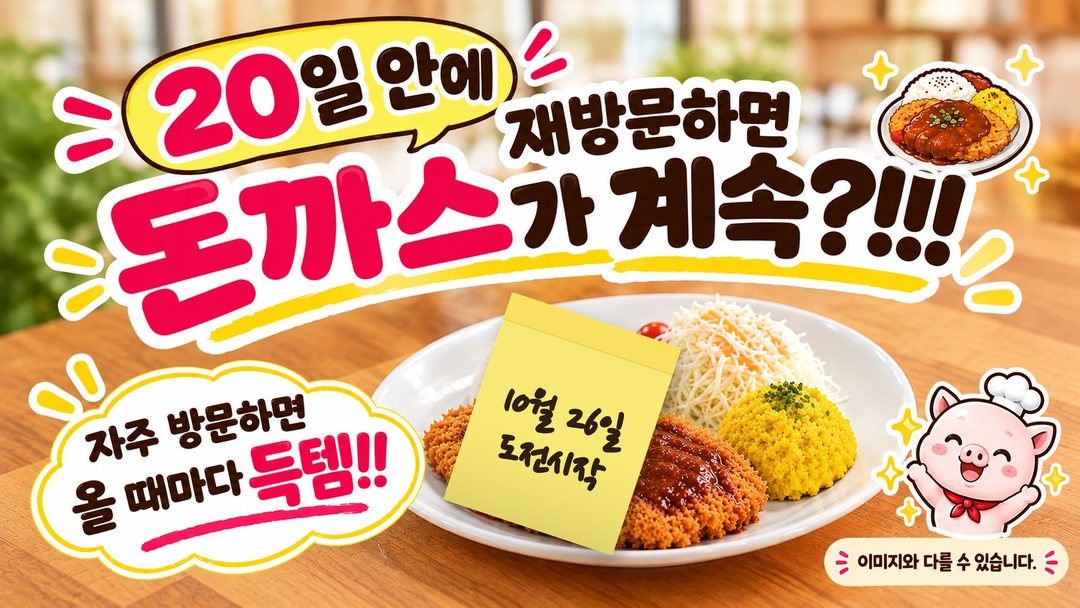
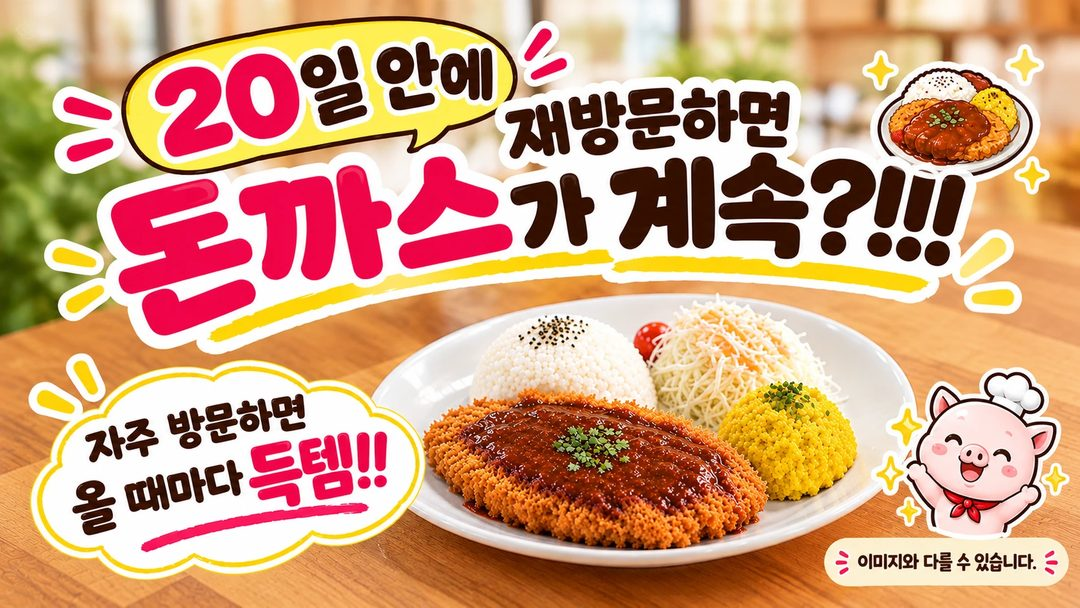
문구 고침, 마일리지 안내 추가, 카운트다운 10시 기준, 9시 이미지 교체
- 카운트다운·도전 시작을 10월 26일 오전 10시(한국 시간)로
- 10월 26일 오전 9시부터 홍보 이미지를 포스트잇 없는 원본으로 (그 전엔 포스트잇, 열어 둔 화면도 바로 바뀜, 한 장만 받음)
- 카운트다운 칸에 "이벤트 기간 마일리지는 누적 카운트되지 않습니다." 안내
- 1단계: 마감일 → 득템 가능한 재방문 기한일 (계산기 제목도 같은 말로)
- 깨알 규칙 1번: "도전을 위한 첫 기준 방문일은…", "이벤트가 종료된 뒤 이용완료 마일리지 적립이 재개됩니다."

Claude-Session: https://claude.ai/code/session_01UUHcDPmg273z7uGNQdQ7sC

Changed region(s): [[0.3972, 0.4688, 0.6417, 0.9375]]

diff --git a/donkatsu/index.html b/donkatsu/index.html
@@ -155,10 +155,12 @@ b, strong { font-weight: 900; }
 .live p { margin: 0; }
 .live .live__day { display: inline-block; margin-bottom: 6px; padding: 2px 10px; border-radius: 999px; background: var(--pink); color: var(--white); font-family: var(--round); font-weight: 400; font-size: 15px; }
 .live strong { color: var(--pink-dark); }
+.mileage-note { margin: 12px 0 0; padding: 8px 10px; border-radius: 12px; background: var(--cream); font-size: 13.5px; font-weight: 700; line-height: 1.45; text-align: center; }
 .is-live .tiles { display: none; }
 .is-live .live { display: block; }
 
 .poster { margin: 0 0 6px; }
+html:not(.js) .poster picture { display: none; }
 .poster picture { display: block; border: 3px solid var(--ink); border-radius: 22px; overflow: hidden; box-shadow: 0 6px 0 var(--ink); background: var(--peach); }
 .scroll-hint { display: inline-flex; flex-direction: column; align-items: center; margin: 14px 0 4px; color: var(--ink-soft); font-weight: 700; font-size: 14px; text-decoration: none; }
 .scroll-hint span { font-size: 22px; line-height: 1; animation: nudge 1.4s ease-in-out infinite; }
@@ -280,9 +282,9 @@ b, strong { font-weight: 900; }
 .vs__mid { align-self: center; display: grid; place-items: center; width: 52px; height: 52px; border-radius: 50%; background: var(--pink); color: var(--white); font-family: var(--round); font-size: 22px; box-shadow: 0 4px 0 var(--pink-dark); transform: rotate(-8deg); }
 .vs__q { margin: 16px 0 0; text-align: center; font-family: var(--round); font-size: 22px; }
 
-/* 마감일 계산기 */
+/* 재방문 기한일 계산기 */
 .calc { background: var(--yellow); }
-.calc .card-sub { margin: -6px 0 14px; text-align: center; font-weight: 700; font-size: 14px; color: var(--ink-soft); }
+.calc .card-sub { margin: -6px 0 14px; text-align: center; font-weight: 700; font-size: 14px; color: var(--ink-soft); text-wrap: balance; }
 .field { display: flex; align-items: center; gap: 10px; padding: 10px 12px; border: 2.5px solid var(--ink); border-radius: 16px; background: var(--white); }
 .field span { flex: none; font-weight: 900; }
 .field input {
@@ -307,6 +309,7 @@ b, strong { font-weight: 900; }
 .rules li:first-child { border-top: 0; padding-top: 2px; }
 .rules .ico { flex: none; display: grid; place-items: center; width: 38px; height: 38px; border-radius: 12px; background: var(--cream); font-size: 20px; }
 .rules b { color: var(--pink-dark); }
+.rules .rule-sub { display: block; margin-top: 6px; padding: 6px 10px; border-radius: 10px; background: var(--yellow-soft); font-size: 14.5px; font-weight: 700; }
 
 /* 예약·공유 */
 .cta { margin-top: 56px; padding-top: 58px; background: linear-gradient(180deg, #FFF0F4 0%, var(--white) 70%); text-align: center; }
@@ -379,7 +382,7 @@ b, strong { font-weight: 900; }
 
     <section class="countdown" id="countdown" aria-label="이벤트 시작 카운트다운">
       <div class="countdown__head">
-        <span class="countdown__label" id="cdLabel"><em>10월 26일(월)</em> 도전 시작까지</span>
+        <span class="countdown__label" id="cdLabel"><em>10월 26일(월) 오전 10시</em><br>도전 시작까지</span>
         <span class="viewers" id="viewers" title="이 소식을 본 사람 수"><span aria-hidden="true">👀</span><span class="viewers__num" id="viewersNum">00000</span><span class="viewers__unit">명이 봤어요</span></span>
       </div>
       <div class="tiles" role="timer" aria-live="off">
@@ -392,15 +395,30 @@ b, strong { font-weight: 900; }
         <span class="live__day" id="liveDay">D+1일째</span>
         <p>오늘 첫 방문하면 <strong id="liveDeadline"></strong>까지<br>다시 오면 돈까스 득템!</p>
       </div>
+      <p class="mileage-note"><span aria-hidden="true">⏸</span> 이벤트 기간 마일리지는<br>누적 카운트되지 않습니다.</p>
     </section>
 
     <figure class="poster">
       <picture>
-        <source srcset="img/poster.webp" type="image/webp">
-        <img src="img/poster.jpg" width="1080" height="608" fetchpriority="high"
-             alt="20일 안에 재방문하면 돈까스가 계속?!!! 자주 방문하면 올 때마다 득템!! — 돈까스 위에 '10월 26일 도전시작' 포스트잇">
+        <source id="posterSrc" type="image/webp">
+        <img id="posterImg" width="1080" height="608" fetchpriority="high" alt="">
       </picture>
+      <noscript><img src="img/poster.jpg" width="1080" height="608" alt="20일 안에 재방문하면 돈까스가 계속?!!! 자주 방문하면 올 때마다 득템!!"></noscript>
     </figure>
+    <script>
+      // 10월 26일 오전 9시(한국 시간)부터는 포스트잇 없는 원본 이미지 (그 전에는 '10월 26일 도전시작' 포스트잇)
+      window.POSTER_SWAP = Date.UTC(2026, 9, 26, 0, 0, 0);
+      window.setPoster = function (now) {
+        var live = now >= window.POSTER_SWAP, v = live ? 'live' : 'postit';
+        var img = document.getElementById('posterImg');
+        if (img.getAttribute('data-v') === v) return;
+        document.getElementById('posterSrc').srcset = live ? 'img/poster.webp' : 'img/poster-postit.webp';
+        img.src = live ? 'img/poster.jpg' : 'img/poster-postit.jpg';
+        img.alt = live ? "20일 안에 재방문하면 돈까스가 계속?!!! 자주 방문하면 올 때마다 득템!!" : "20일 안에 재방문하면 돈까스가 계속?!!! 자주 방문하면 올 때마다 득템!! — 돈까스 위에 '10월 26일 도전시작' 포스트잇";
+        img.setAttribute('data-v', v);
+      };
+      window.setPoster(Date.now());
+    </script>
     <a class="scroll-hint" href="#value">아래로 쓱~ 내려서 득템 방법 보기<span aria-hidden="true">↓</span></a>
   </header>
 
@@ -429,7 +447,7 @@ b, strong { font-weight: 900; }
           <span class="step__no">1</span>
           <div>
             <h3>10월 26일 이후 <em>첫 방문</em></h3>
-            <p>누구나 도전 시작! 입장권에 <b>마감일(+20일)</b>이 찍혀 나와요 🎟</p>
+            <p>누구나 도전 시작! 입장권에 <b>득템 가능한 재방문 기한일(+20일)</b>이 찍혀 나와요 🎟</p>
           </div>
         </li>
         <li class="step reveal">
@@ -482,8 +500,8 @@ b, strong { font-weight: 900; }
     </section>
 
     <section class="card calc reveal" aria-labelledby="calcTitle">
-      <h2 id="calcTitle">⏰ 내 득템 마감일은?</h2>
-      <p class="card-sub">방문한 날을 고르면 마감일을 알려드려요</p>
+      <h2 id="calcTitle">⏰ 내 재방문 기한일은?</h2>
+      <p class="card-sub">방문한 날을 고르면 득템 가능한 재방문 기한일을 알려드려요</p>
       <label class="field">
         <span>방문한 날</span>
         <input type="date" id="visitDate" min="2026-10-26" value="2026-10-26">
@@ -498,7 +516,7 @@ b, strong { font-weight: 900; }
     <section class="card rules reveal" aria-labelledby="rulesTitle">
       <h2 id="rulesTitle">📌 놓치면 아까운 깨알 규칙</h2>
       <ul>
-        <li><span class="ico" aria-hidden="true">🗓</span><div><b>10월 25일까지</b>의 방문은 지금처럼 마일리지 적립! 도전은 아직 시작 전이에요</div></li>
+        <li><span class="ico" aria-hidden="true">🗓</span><div><b>10월 25일까지</b>의 방문은 지금처럼 마일리지 적립! 도전을 위한 첫 기준 방문일은 아직 시작 전이에요<span class="rule-sub">이벤트가 종료된 뒤 이용완료 마일리지 적립이 재개됩니다.</span></div></li>
         <li><span class="ico" aria-hidden="true">⏸</span><div><b>10월 26일부터</b>는 마일리지 적립이 잠시 멈추고, 돈까스 도전이 시작돼요</div></li>
         <li><span class="ico" aria-hidden="true">🔁</span><div><b>21일 이상</b> 훌쩍 지나서 오시면 콤보 리셋! 그날이 다시 첫 방문이 돼요</div></li>
         <li><span class="ico" aria-hidden="true">🍽</span><div><b>사은 음식</b> 한돈 생육으로 직접 만든 수제 돈까스 1접시 (14,000원)</div></li>
@@ -533,7 +551,7 @@ b, strong { font-weight: 900; }
   'use strict';
 
   /* ── 설정 ── */
-  const START = Date.UTC(2026, 9, 25, 15, 0, 0);   // 2026-10-26 00:00 (한국 시간)
+  const START = Date.UTC(2026, 9, 26, 1, 0, 0);    // 2026-10-26 오전 10:00 (한국 시간) 도전 시작
   const WINDOW_DAYS = 20;                          // 방문일 + 20일까지 다시 오면 득템
   const PAGE_URL = 'https://gnb21c-cmd.github.io/event/donkatsu/';
   const OG_IMAGE = 'https://gnb21c-cmd.github.io/event/donkatsu/img/og.jpg';
@@ -585,8 +603,9 @@ b, strong { font-weight: 900; }
     $('liveDeadline').textContent = label(today + WINDOW_DAYS);
     $('ctaText').textContent = '놓치면 손해! 오늘 예약하고 콤보를 시작하세요';
   }
-  tick();
-  timer = setInterval(tick, 1000);
+  const tickAll = () => { tick(); window.setPoster(Date.now()); };
+  tickAll();
+  timer = setInterval(tickAll, 1000);
 
   /* ── 본 사람 수 (같은 휴대폰·브라우저는 한 번만) ── */
   function markSeen() {
@@ -622,7 +641,7 @@ b, strong { font-weight: 900; }
       .catch(() => box.classList.add('is-off'));
   })();
 
-  /* ── 마감일 계산기 ── */
+  /* ── 재방문 기한일 계산기 ── */
   const input = $('visitDate');
   input.min = isoDay(START_DAY);
   input.value = isoDay(Math.max(kstDay(Date.now()), START_DAY));

diff --git a/README.md b/README.md
@@ -19,16 +19,17 @@
 ## 구성
 
 - `donkatsu/index.html` — 페이지 전체 (디자인·문구·동작이 한 파일)
-- `donkatsu/img/` — 홍보 이미지(`poster`), 돈까스 접시(`plate`), 돼지 캐릭터(`pig`), 카카오톡 미리보기(`og.jpg`)
+- `donkatsu/img/` — 홍보 이미지(`poster-postit`: 10월 26일 오전 9시 전 / `poster`: 그 뒤), 돈까스 접시(`plate`), 돼지 캐릭터(`pig`), 카카오톡 미리보기(`og.jpg`)
+- 카운트다운은 10월 26일 오전 10시(한국 시간)까지
 - `index.html` — 저장소 첫 주소를 지금 이벤트로 넘김
 
 ## 본 사람 수 (다섯 자리 숫자)
 
 - 무료 집계 서비스 [Abacus](https://jasoncameron.dev/abacus/) 를 씁니다. 이름: `gnb21c-event` / `donkatsu-2026`
-- 같은 휴대폰의 같은 브라우저는 한 번만 셉니다 (브라우저 저장소 + 쿠키). 다만 같은 사람이라도 카카오톡 안 브라우저와 휴대폰 기본 브라우저로 각각 열면 두 번, 방문 기록을 지우거나 시크릿 모드면 다시 셉니다.
+- 브라우저 앱마다 한 번만 셉니다 (브라우저 저장소 + 쿠키). 보통 한 사람이 최대 2번: 카메라로 QR을 찍어 연 기본 브라우저 1번 + 카카오톡으로 받은 링크를 연 카카오톡 안 브라우저 1번. 네이버 앱 QR 같은 다른 앱으로 또 열거나 휴대폰·태블릿 두 대로 열면 그만큼 더, 방문 기록을 지우거나 시크릿 모드면 다시 셉니다.
 - 주소 끝에 `?test` 를 붙이면 세지 않고 숫자만 봅니다 (직원 확인용).
 - 지금 숫자만 보기: https://abacus.jasoncameron.dev/get/gnb21c-event/donkatsu-2026
-- 6개월 동안 아무도 안 열면 기록이 지워지는 무료 서비스입니다.
+- 누가 페이지를 열 때마다(세든 안 세든) 보관 기간 6개월이 그때부터 다시 시작됩니다 (한 시간에 한 번까지만 갱신). 6개월 동안 아무도 안 열면 지워집니다.
 
 ## 카카오톡 공유
 

diff --git a/CLAUDE.md b/CLAUDE.md
@@ -9,7 +9,8 @@
 
 ## 재방문 돈까스 무한 득템 (`donkatsu/`)
 
-- 시작: 2026-10-26 00:00 (한국 시간). 10월 25일까지 방문은 마일리지 적립, 10월 26일부터 마일리지 적립은 잠시 멈추고 도전.
+- 카운트다운·도전 시작: 2026-10-26 오전 10:00 (한국 시간). 홍보 이미지는 2026-10-26 오전 9:00부터 포스트잇 없는 원본(`img/poster`), 그 전에는 포스트잇(`img/poster-postit`).
+- 10월 25일까지 방문은 마일리지 적립, 10월 26일부터 마일리지 적립은 잠시 멈추고 도전. 이벤트가 끝나면 이용완료 마일리지 적립 재개.
 - 규칙: 방문일 + 20일(방문일 포함 3주) 안에 재방문 → 수제 돈까스 1접시(14,000원). 득템한 날이 새 도전 시작. 21일 이상 지나면 리셋되어 그날이 첫 방문.
 - 본 사람 수: Abacus `gnb21c-event/donkatsu-2026`, 같은 브라우저는 한 번만, `?test` 는 세지 않음.
 - 예약: 네이버 예약 `https://m.booking.naver.com/booking/12/bizes/653244?theme=place&entry=pll&lang=ko`
